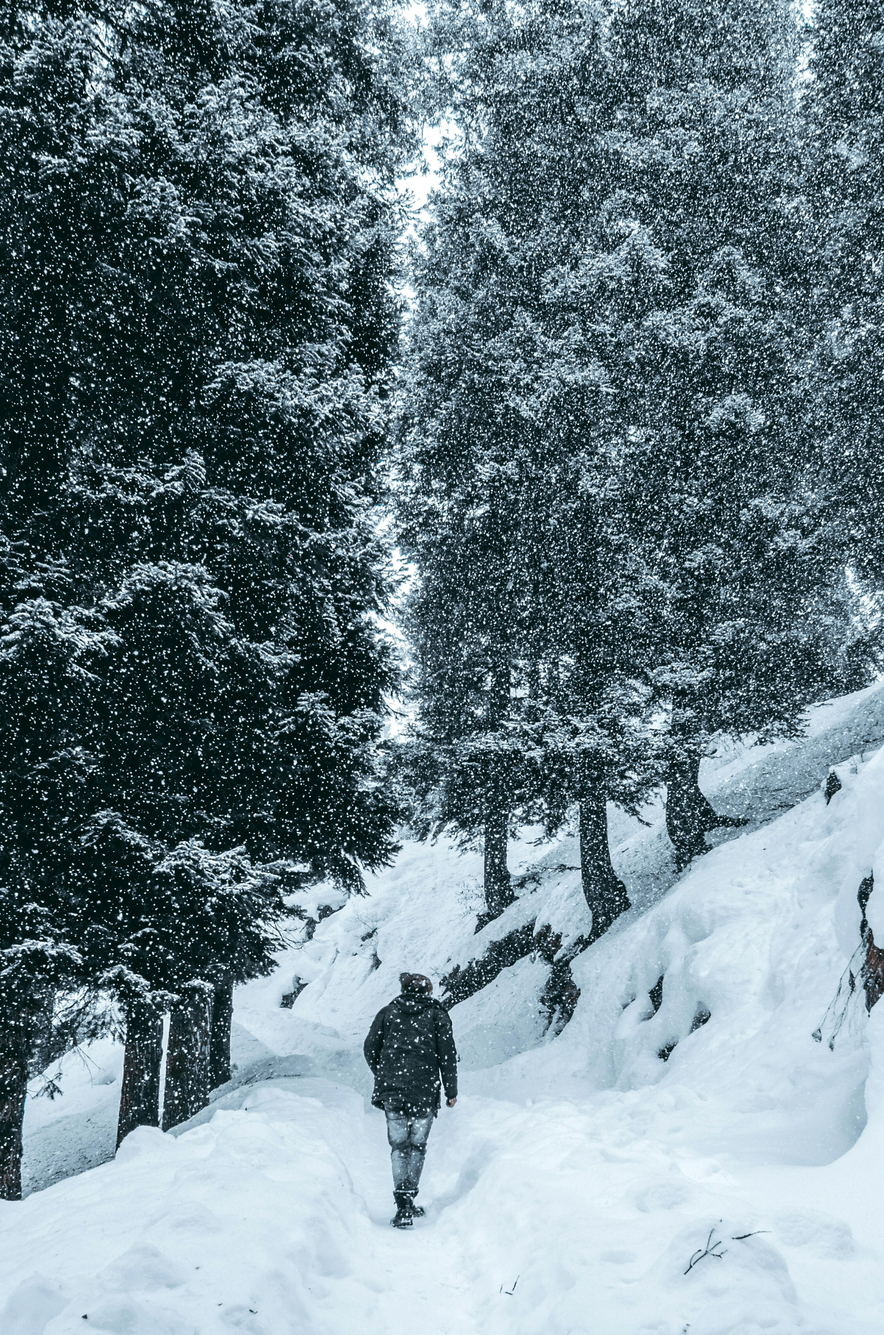
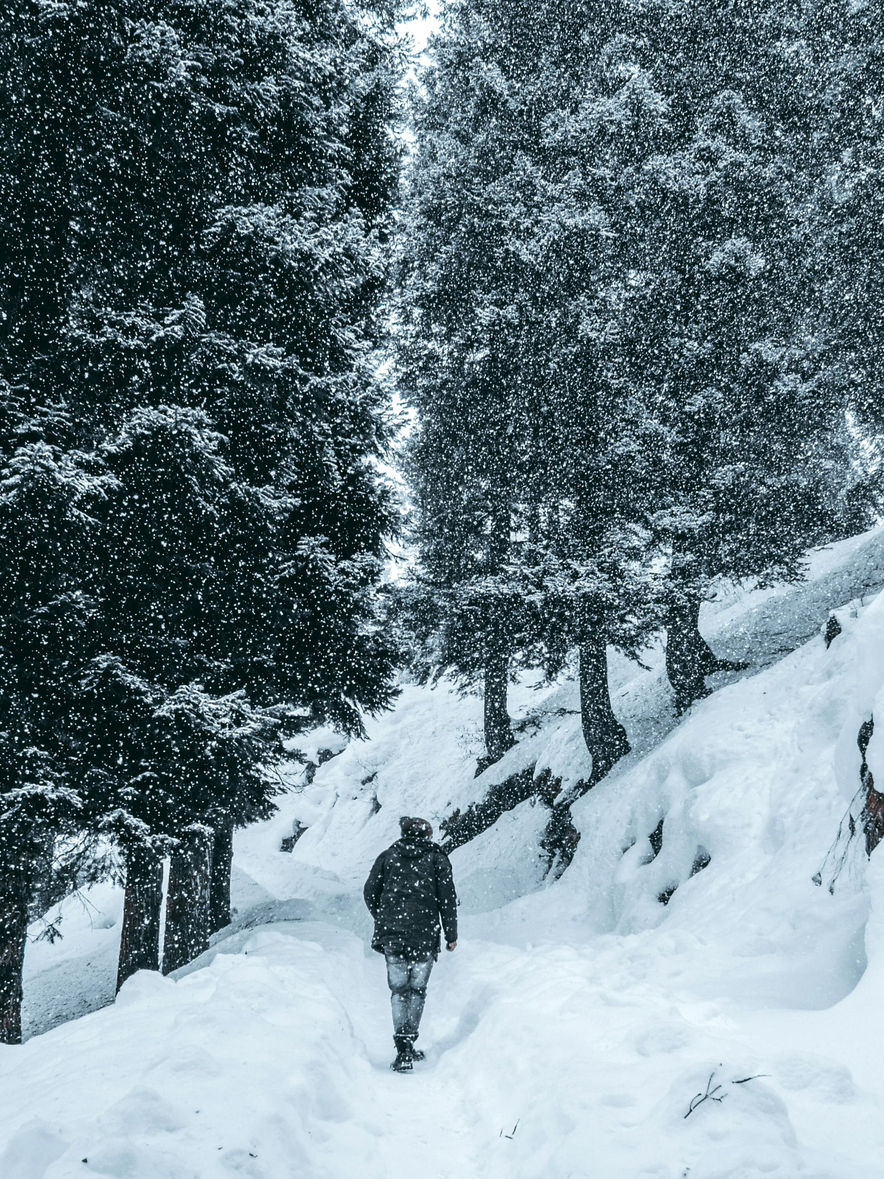
images are responsive across display sizes

diff --git a/index.html b/index.html
@@ -27,6 +27,10 @@
                 height: auto;
             }
         }
+        body.modal-open {
+                padding-right: 0;
+            }
+
     </style>
     <title>Trave Blog</title>
 </head>
@@ -283,16 +287,14 @@
                 </div>
             </div>
         </div>
-    </div>
-    <div class="row mb-2 my-4 mx-4">
         <div class="col-md-6">
             <div
                 class="row no-gutters border rounded overflow-hidden flex-md-row mb-4 shadow-sm h-md-250 position-relative">
                 <div class="col p-4 d-flex flex-column position-static">
-                    <strong class="d-inline-block mb-2 text-warning">World</strong>
+                    <strong class="d-inline-block mb-2 text-primary">World</strong>
                     <h3 class="mb-0">Jaisalmer</h3>
                     <div class="mb-1 text-muted">Nov 12</div>
-                    <p class="mb-auto">This is a wider card with supporting text below as a natural lead-in to
+                    <p class="card-text mb-auto">This is a wider card with supporting text below as a natural lead-in to
                         additional content.</p>
                     <a href="#" class="stretched-link">Continue reading</a>
                 </div>
